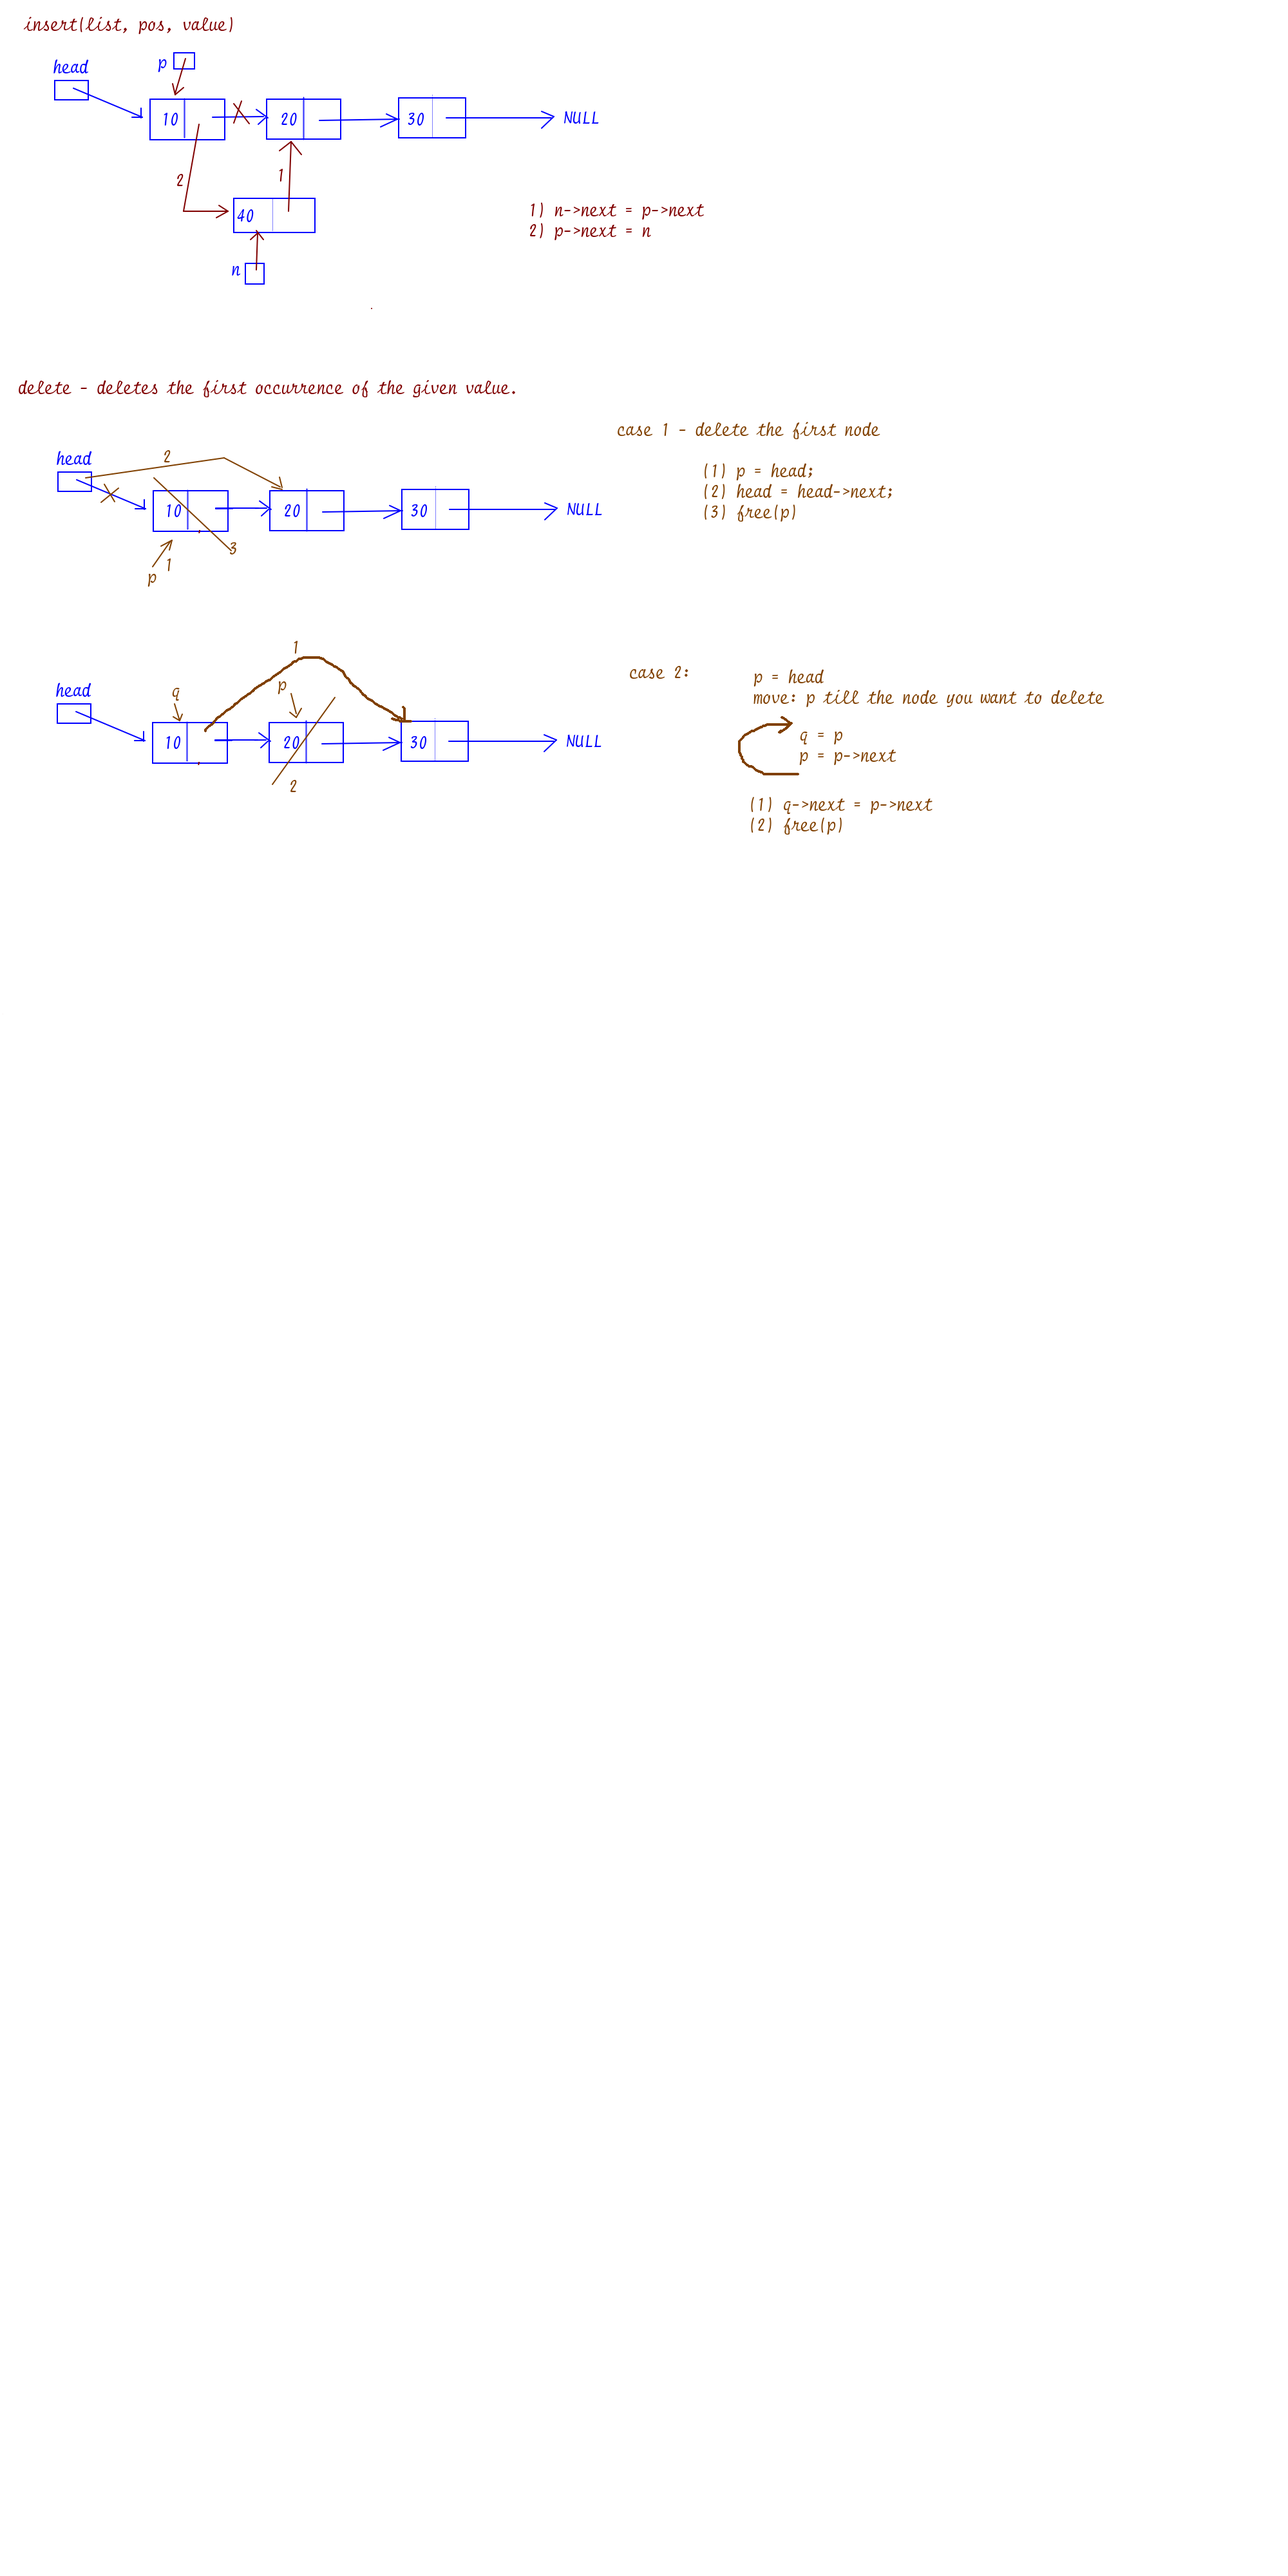
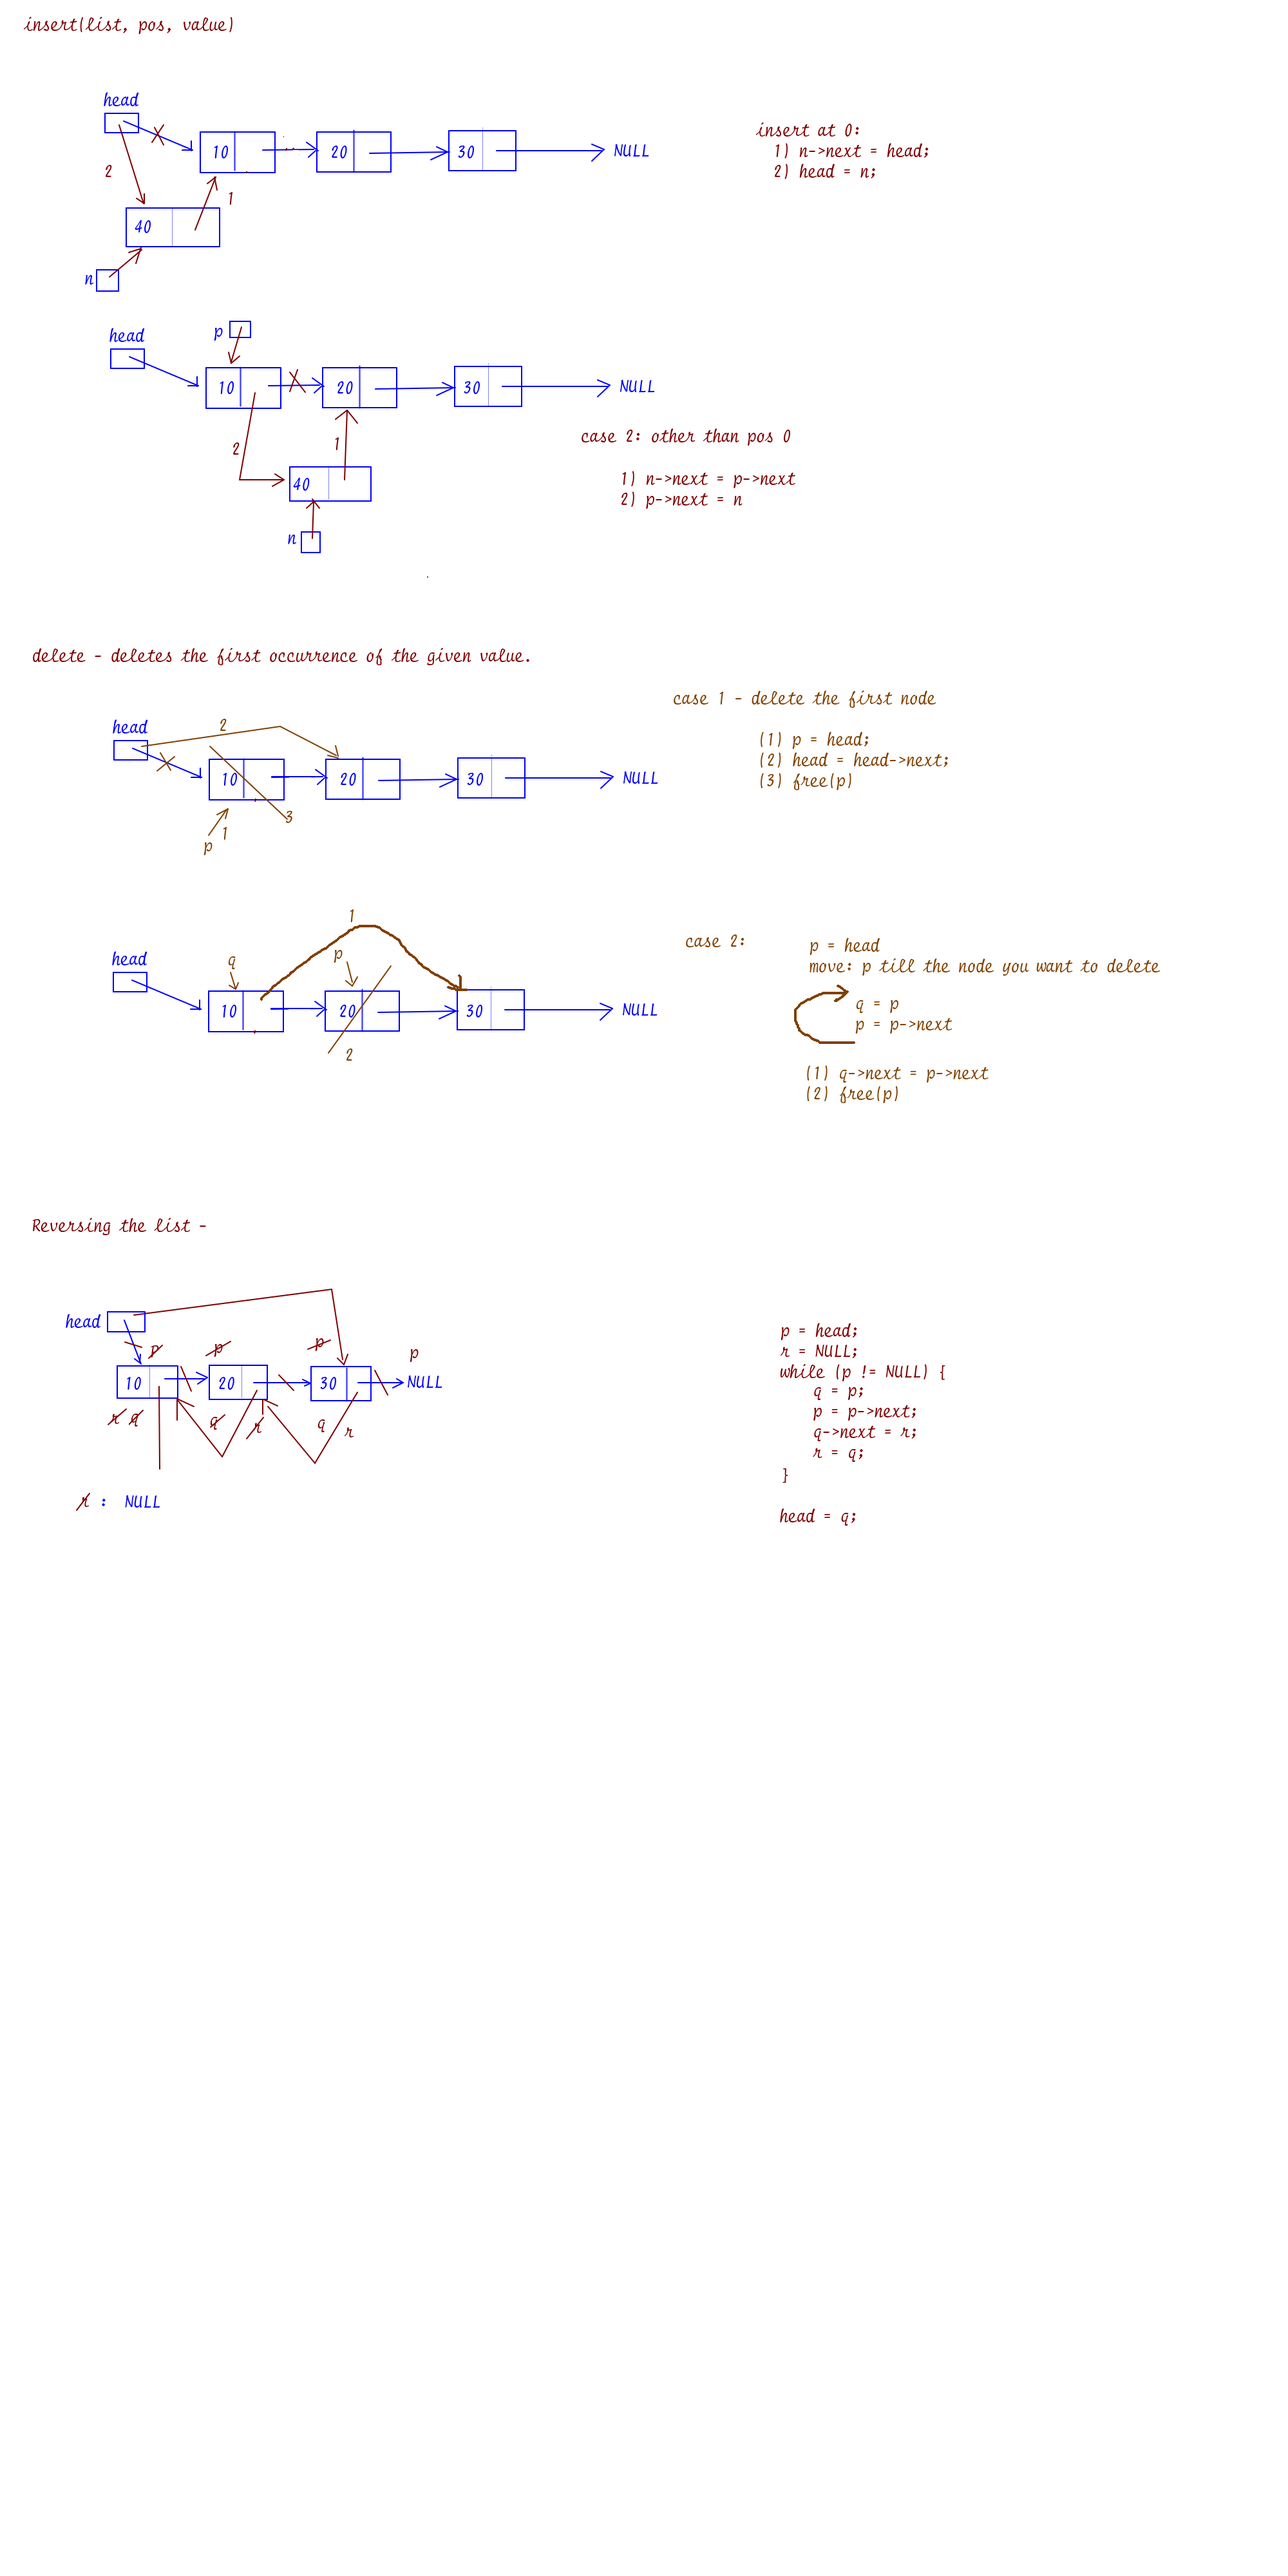
LinkedList updated

diff --git a/session7/2-LinkedList.c b/session7/2-LinkedList.c
@@ -15,9 +15,9 @@ struct Node * add ( struct Node *, int );
 void display(struct Node *);
 struct Node * insert(struct Node *, int, int);
 struct Node * delete(struct Node *, int);
+struct Node * reverse(struct Node *);
+void sort(struct Node *);
 
-void sort();
-void reverse();
 
 int menu() {
     int choice;
@@ -58,11 +58,11 @@ int main() {
                 head = delete(head, value);
                 break;
             case SORT:
-                sort();
+                sort(head);
                 printf("\nSort operation");
                 break;
             case REVERSE:
-                reverse();
+                head = reverse(head);
                 printf("\nReverse operation");
                 break;
             case DISPLAY:
@@ -214,8 +214,86 @@ struct Node * delete(struct Node *head, int value) {
     return head; // new head in case of (1) or same head in case (2)
 }
 
-void sort() {}
-void reverse() {}
+struct Node * reverse(struct Node * head) {
+    struct Node *p, *q, *r;
+    
+    if (head == NULL) return NULL;
+
+    p = head;
+    r = NULL;
+    while (p != NULL) {
+        q = p;
+        p = p->next;
+        q->next = r;
+        r = q;
+    }
+
+    head = q;
+
+    return head; // return the new head.
+
+}
 
 
+// Efficiency ignored.
+void sort(struct Node *head) {
+    struct Node *p, *q;
+    int temp;
+    for (p = head; p != NULL; p = p->next) {
+        for (q = head; q != NULL; q = q->next ) {
+            if (q->next != NULL && q->data > q->next->data) {
+                temp = q->data;
+                q->data = q->next->data;
+                q->next->data = temp;   
+            }
+        }
+    }
+}
+
+
+
+/**
+Exercise - 1 - 
+
+    Sample call :- 
+        int arr[] = {10, 20, 30, 40};
+        head = addAll(head, arr, 4);
+
+    struct Node * addAll(struct Node * head, int arr[], int n) {
+
+    }
+
+
+Exercise - 2 - 
+
+    Sample call :- 
+        int arr[] = {10, 20};
+        head = removeAll(head, arr, 2);
+
+    struct Node * removeAll(struct Node * head, int arr[], int n) {
+
+    }
+
+
+Exercise - 3 -  (Take Exercise 1 sol as input)
+
+    Sample call :- 
+        int arr1[] = {10, 20, 30};
+        int arr2[] = {12, 2, 20, 30};
+        struct Node *h1 = NULL, * h2 = NULL;
+        h1 = addAll(h1, arr1, 3);                            // ....first linked list
+        h2 = addAll(h2, arr2, 4);                            // ....second list 
+        h3 = union(h1, h2); // expected outcome h3 with values 20 and 30
+
+    // returns a new list which is an union of h1 and h2.
+    struct Node * union(struct Node * h1, struct Node *h2) {
+
+    }
+
+
+    addAll => addition
+    intersection =>
+    union =>
+    set difference => C = A - B 
+*/
 
